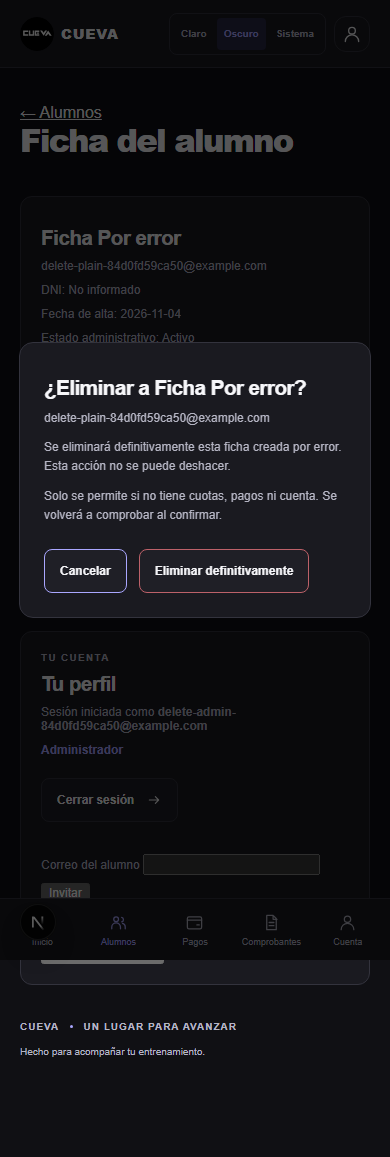
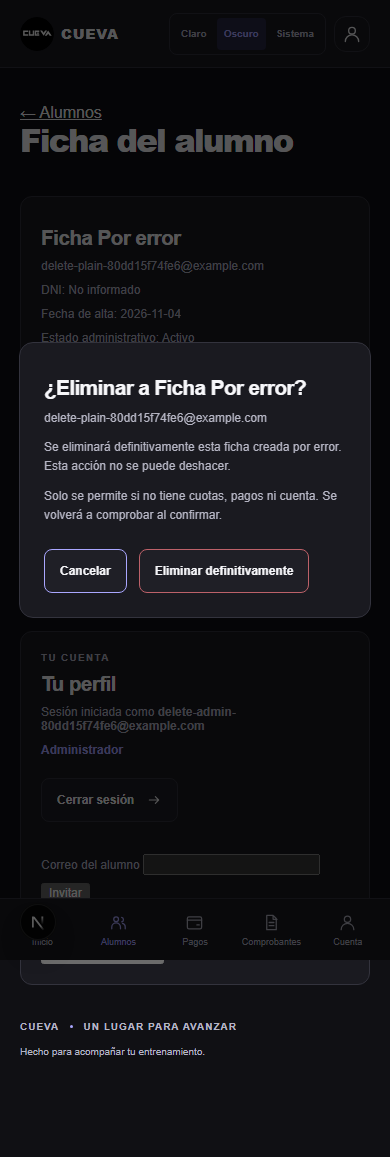
fix: preserve ambiguous provisioning and accept bounded Unicode requests

Changed region(s): [[0.1538, 0.6223, 0.5231, 0.6534], [0.3385, 0.3423, 0.6769, 0.3734], [0.3385, 0.2178, 0.6769, 0.2489]]

diff --git a/src/app/api/alumnos/eliminar/route.ts b/src/app/api/alumnos/eliminar/route.ts
@@ -16,14 +16,14 @@ export async function POST(req: Request) {
   if(!reader)return reply("Datos inválidos.",400);
   const chunks:Uint8Array[]=[];let size=0;
   try {
-    while(true){const {done,value}=await reader.read();if(done)break;size+=value.byteLength;if(size>512){await reader.cancel();return reply("Solicitud demasiado extensa.",413);}chunks.push(value);}
+    while(true){const {done,value}=await reader.read();if(done)break;size+=value.byteLength;if(size>2048){await reader.cancel();return reply("Solicitud demasiado extensa.",413);}chunks.push(value);}
   } catch {return reply("Datos inválidos.",400);} finally {reader.releaseLock();}
   let data;
   try {data=JSON.parse(new TextDecoder().decode(Buffer.concat(chunks)));} catch {return reply("Datos inválidos.",400);}
   if(!data||typeof data!=="object"||data.confirmed!==true||typeof data.id!=="string"||!/^([0-9a-f]{8}-[0-9a-f]{4}-[0-9a-f]{4}-[0-9a-f]{4}-[0-9a-f]{12})$/i.test(data.id)||typeof data.email!=="string"||data.email.length>254)return reply("Confirmá la ficha que querés eliminar.",400);
   const result=await client.rpc("cueva_delete_empty_student",{p_student:data.id,p_expected_email:data.email,p_confirm:true});
   if(result.error)return reply("La eliminación no está disponible. No confirmamos ningún borrado; revisá el listado antes de reintentar.",503);
-  if(result.data==="protected")return reply("No se puede eliminar: tiene cuotas, pagos, una invitación en curso o una cuenta asociada. Podés marcarla Inactiva desde Editar ficha.",409);
+  if(result.data==="protected")return reply("No se puede eliminar: tiene historial o una invitación/cuenta que debe conservarse. Podés marcarla Inactiva desde Editar ficha.",409);
   if(result.data==="changed")return reply("La ficha cambió. Cerrá esta confirmación y recargá antes de continuar.",409);
   if(result.data!=="deleted"&&result.data!=="not_found")return reply("No pudimos confirmar el resultado. Revisá el listado.",503);
   return NextResponse.json({deleted:true},{headers:{"Cache-Control":"no-store"}});

diff --git a/src/components/students/delete-student-action.tsx b/src/components/students/delete-student-action.tsx
@@ -9,7 +9,7 @@ export function DeleteStudentAction({id,email,name,eligibility}:{id:string;email
   const eligible=eligibility==="eligible";
   return <div className="student-delete">
     <button type="button" className="dash-signout student-delete-trigger" disabled={!eligible} onClick={()=>{setMessage("");dialog.current?.showModal();cancel.current?.focus();}}>Eliminar alumno</button>
-    {!eligible&&<p>{eligibility==="protected"?"Esta ficha tiene historial, una invitación en curso o una cuenta asociada. No se puede eliminar; podés marcarla Inactiva desde Editar ficha.":"La eliminación no está disponible para esta ficha. Recargá antes de continuar."}</p>}
+    {!eligible&&<p>{eligibility==="protected"?"Esta ficha tiene historial, una invitación que debe conservarse o una cuenta asociada. No se puede eliminar; podés marcarla Inactiva desde Editar ficha.":"La eliminación no está disponible para esta ficha. Recargá antes de continuar."}</p>}
     <dialog ref={dialog} className="student-delete-dialog" aria-labelledby={`delete-title-${id}`} onCancel={event=>{if(busy.current)event.preventDefault();}} onKeyDown={event=>{
       if(event.key!=="Tab")return;
       if(busy.current){event.preventDefault();return;}

diff --git a/docs/engineering/CUEVA-ALUMNOS-ELIMINAR-review.md b/docs/engineering/CUEVA-ALUMNOS-ELIMINAR-review.md
@@ -10,7 +10,7 @@ Eliminar alumno aparece en el detalle. Confirma nombre y correo, inicia foco en
 Cancelar, mantiene Tab/Shift+Tab dentro del diálogo, permite Escape y deshabilita
 salida/envíos duplicados mientras está pendiente. Muestra errores sin ocultar el
 diálogo y tras éxito vuelve al listado con aviso; al recargar la ficha ya no existe.
-Se revisaron las capturas reales a390 oscuro y1440 claro, sin desbordamientos.
+Se revisaron las capturas reales a 390 oscuro y 1440 claro, sin desbordamientos.
 
 La API exige Origin exacto, JSON acotado, UUID, correo observado y confirmación
 true, con administración verificada antes de llamar RPC. No usa service_role.
@@ -20,7 +20,7 @@ y sesión/gate actuales; sin grant DELETE directo ni autorización por metadatos
 Usa el mismo advisory transaccional de pagos antes del lock de ficha; luego bloquea
 el trabajo de invitación. Comprueba períodos, cuenta por correo o UUID capturado y
 estados de envío. La coincidencia de correo únicamente impide borrar; no asocia ni
-modifica identidades. Borra solo el pedido blocked/failed sin provisión y la ficha.
+modifica identidades. Borra solo el pedido blocked sin provisión y la ficha.
 Las FK se conservan sin cascada; cualquier referencia inesperada hace rollback de
 toda la función y devuelve protegido. Repetir un UUID ya ausente es éxito idempotente.
 Si el correo cambió tras cargar el detalle, exige recarga antes de eliminar.
@@ -33,10 +33,10 @@ problema; jamás compensar borrando historial, cuentas o relaciones.
 
 ## Pruebas locales nuevas
 
-[Laboratorio48/48 PASS](../../experiments/cueva-invitations-local/deletion-evidence.json),
+[Laboratorio 49/49 PASS](../../experiments/cueva-invitations-local/deletion-evidence.json),
 incluidas seis comprobaciones de limpieza. Casos afectados: preview sin escritura,
 confirmación/cancelación/Escape/foco, estado posterior y replay; pedidos pendientes
-sin provisión; protección de cuota impaga/pago/anulación/cuenta/UUID/estados de envío;
+sin provisión; protección de cuota impaga/pago/anulación/cuenta/UUID/estados de envío, incluido failed sin UUID por posible creación ambigua;
 chequeo tras abrir diálogo y correo obsoleto; confirmación ausente, Origin, tamaño,
 UUID, método; alumno/visitante, denegación DELETE directo; borrado paralelo;
 concurrencia real con transacciones de cuota y reserva de invitación; ausencia de
@@ -52,7 +52,7 @@ Remove-Item Env:CUEVA_STUDENT_DELETION_ONLY
 ```
 
 Se reutiliza el laboratorio existente con imágenes fijadas, nombres/red exclusivos,
-puertos dinámicos ligados a127.0.0.1 y límites de recursos. Cierra Next/Chromium y
+puertos dinámicos ligados a 127.0.0.1 y límites de recursos. Cierra Next/Chromium y
 elimina solo sus contenedores/red. Sin reiniciar Docker ni tocar Vendify. No se
 repiten los laboratorios completos de identidad, invitación o pagos.
 

diff --git a/docs/engineering/CUEVA-ALUMNOS-ELIMINAR-task.md b/docs/engineering/CUEVA-ALUMNOS-ELIMINAR-task.md
@@ -13,8 +13,8 @@ checkout limpio reutilizado, rama `codex/cueva-alumnos-eliminar`.
 - Solo administración con sesión habilitada. Comprobar nuevamente en base de datos
   que no tenga períodos/cuotas, pagos ni identidad. Con historial, conservar todo e
   indicar Inactivo desde Editar ficha; no añadir archivo ni bloqueo de acceso nuevos.
-- Un pedido blocked/failed sin UUID, cuenta por ese correo ni envío en curso puede
-  eliminarse junto con la ficha. processing/review/sent o UUID capturado protegen.
+- Un pedido blocked sin UUID, cuenta por ese correo ni envío en curso puede
+  eliminarse junto con la ficha. failed/processing/review/sent o UUID capturado protegen.
 - No borrar ni modificar Auth, perfiles, pagos, cuotas, recuperación o invitaciones
   enviadas. Sin cascadas, eliminación masiva ni permisos DELETE directos.
 - Concurrencia con pagos/invitación y repeticiones deben mantener las relaciones.

diff --git a/docs/engineering/checkpoint.md b/docs/engineering/checkpoint.md
@@ -6,7 +6,7 @@ Base main verificada `67d44e2d954bd09af0ea821b718a8151cd9af28a`, rama
 `codex/cueva-alumnos-eliminar`. El usuario autorizó agregar eliminación segura y
 mergear si queda revisada. Fichas sin historial/cuenta, confirmación explícita;
 no borra Auth ni cuotas/pagos. [Encargo](CUEVA-ALUMNOS-ELIMINAR-task.md) y
-[pruebas/operación](CUEVA-ALUMNOS-ELIMINAR-review.md). Laboratorio48/48 PASS;
+[pruebas/operación](CUEVA-ALUMNOS-ELIMINAR-review.md). Laboratorio 49/49 PASS;
 verificaciones completas, revisión independiente e integración en curso.
 Migración alojada y estado de publicación se registran aparte.
 
